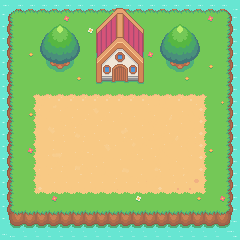
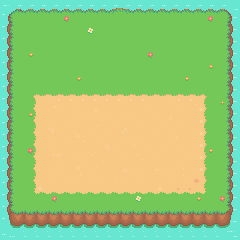
optimizing & house entity

Changed region(s): [[0.3792, 0.0292, 0.6125, 0.35], [0.1458, 0.0875, 0.35, 0.3208], [0.6708, 0.0875, 0.8458, 0.3208]]

diff --git a/public/modules/Game.js b/public/modules/Game.js
@@ -2,8 +2,8 @@
 import { InputHandler } from "./InputHandler.js";
 import { Player } from "./Player.js";
 import { SocketHandler } from "./SocketHandler.js";
-import { CollisionEntity } from "./CollisionEntity.js";
 import { Wall } from "./Wall.js";
+import { House } from "./House.js";
 
 export class Game {
   entities = [];
@@ -25,7 +25,7 @@ export class Game {
       y: Math.floor(Math.random()*(this.sceneryHeight-400))+200,
       width: 40,
       height: 60,
-      speed: 5,
+      speed: 4,
       direction: "s",
       color: `rgb(${this.#randomNumber()}, ${this.#randomNumber()}, ${this.#randomNumber()})`,
       name: localStorage.getItem("name") || "João Gomes Da Silva",
@@ -42,7 +42,7 @@ export class Game {
     
 
     this.ctx.imageSmoothingEnabled = false
-    this.drawScenery()  
+    this.refreshEntities()
   }
 
   createWallsCollision(){
@@ -54,6 +54,7 @@ export class Game {
     new Wall(this,{x: 30, y: 60, width: 20, height: this.sceneryHeight-180})
     //left
     new Wall(this,{x: this.sceneryWidth-50, y: 60, width: 20, height: this.sceneryHeight-180})
+    new House(this, {x: 422, y: 30, width:150, height:228})
   }
 
   drawScenery(){
@@ -118,7 +119,7 @@ export class Game {
     while(true){
       let swaps = 0    
     for (let i=0; i<sorted.length-1; i++){
-      if(sorted[i].y>sorted[i+1].y){
+      if((sorted[i].y+sorted[i].height)>(sorted[i+1].y+sorted[i+1].height)){
         let pointer = sorted[i]
         sorted[i] = sorted[i+1]
         sorted[i+1] = pointer

diff --git a/public/modules/Player.js b/public/modules/Player.js
@@ -2,7 +2,7 @@ import { CollisionEntity } from "./CollisionEntity.js";
 
 export class Player extends CollisionEntity {
   constructor(game, playerInfo, notAdd) {
-    super(game, false)
+    super(game, false, playerInfo)
     this.game = game;
     this.ctx = this.game.ctx;
     this.directionMapping = {
@@ -12,10 +12,6 @@ export class Player extends CollisionEntity {
         "d": 3
       }
     this.id = playerInfo.id;
-    this.x = playerInfo.x;
-    this.y = playerInfo.y;
-    this.width = playerInfo.width;
-    this.height = playerInfo.height;
     this.direction = playerInfo.direction;
     this.speed = playerInfo.speed;
     this.color = playerInfo.color;
@@ -24,6 +20,7 @@ export class Player extends CollisionEntity {
     this.frame = 1
     this.spriteImg = new Image(200,200);
     this.spriteImg.src = "../assets/sprite.png";
+    
     if(!notAdd)this.game.entities.push(this)
     if(this.game.devMode)console.log("Player created");
     this.draw();
@@ -52,10 +49,6 @@ export class Player extends CollisionEntity {
     if(this.game.devMode)this.showBox()
   }
 
-  update(){
-    this.draw()
-  }
-
   changePos(info){
     this.x = info.x;
     this.y = info.y
@@ -79,9 +72,8 @@ export class Player extends CollisionEntity {
   }
 
   animate(){
-    let animation = setInterval(()=>{
+    setInterval(()=>{
         if((this.frame+1>3) || !this.isMoving) {this.frame=0} else this.frame++
-      
     }, 300)
     
   }

diff --git a/public/modules/InputHandler.js b/public/modules/InputHandler.js
@@ -35,13 +35,6 @@ export class InputHandler {
                         moved = true
                     } 
                 }
-                if(moved){
-                  this.mainPlayer.isMoving = true
-                } else {
-                  this.mainPlayer.isMoving = false
-                  this.game.refreshEntities()
-                  this.game.connection.emitMovement()
-                }
                 let collisionInfo = this.mainPlayer.getCollisionInfo()
                 let collides = this.game.checkAllCollisions(collisionInfo)
                   if(this.movementHandler["w"] && (!this.game.checkAllCollisions({...collisionInfo, y: collisionInfo.y-this.mainPlayer.speed})||collides)){
@@ -64,9 +57,14 @@ export class InputHandler {
                     this.game.cameraPositionX -= this.mainPlayer.speed
                     moved = true
                   } 
+                let wasPreviouslyMoving = this.mainPlayer.isMoving
                 if(moved){
-                  this.game.refreshEntities()
-                    this.game.connection.emitMovement()}
+                  this.mainPlayer.isMoving = true
+                }else{
+                  this.mainPlayer.isMoving = false
+                }
+                this.game.refreshEntities();
+                    if(wasPreviouslyMoving || this.mainPlayer.isMoving){this.game.connection.emitMovement()}
             }, 20)
           }
           

diff --git a/public/modules/House.js b/public/modules/House.js
@@ -1,0 +1,31 @@
+import { CollisionEntity } from "./CollisionEntity.js";
+
+export class House extends CollisionEntity {
+    constructor(game, info){
+        super(game, false, info)
+        this.game = game
+        this.ctx = this.game.ctx
+        this.spriteImg = new Image(52,78)
+        this.spriteImg.src = "assets/house.png"
+        this.game.entities.push(this)
+    }
+
+    get collisionY() {
+        return this.y + this.height/4 + this.game.cameraPositionY
+    }
+
+    get collisionHeight(){
+        return this.height - this.height/4
+    }
+
+    draw(){
+        this.ctx.drawImage(
+            this.spriteImg, 1,1,50,76, 
+            this.x + this.game.cameraPositionX, 
+            this.y + this.game.cameraPositionY, 
+            this.width, 
+            this.height)
+            if(this.game.devMode){this.showBox()}
+
+    }
+}

diff --git a/public/modules/CollisionEntity.js b/public/modules/CollisionEntity.js
@@ -1,7 +1,11 @@
 export class CollisionEntity {
-  constructor(game, canPassThrough) {
+  constructor(game, canPassThrough, info) {
     this.game = game;
     this.ctx = this.game.ctx;
+    this.x = info.x
+    this.y = info.y
+    this.height = info.height
+    this.width = info.width
     this.canPassThrough = canPassThrough;
     if (this.game.devMode) console.log("Collision Created");
   }

diff --git a/public/modules/Wall.js b/public/modules/Wall.js
@@ -2,11 +2,7 @@ import { CollisionEntity } from "./CollisionEntity.js";
 
 export class Wall extends CollisionEntity {
     constructor(game,info){
-        super(game, false)
-        this.x = info.x;
-        this.y = info.y;
-        this.width = info.width;
-        this.height = info.height;
+        super(game, false, info)
         this.game.entities.push(this);  
     }
 
